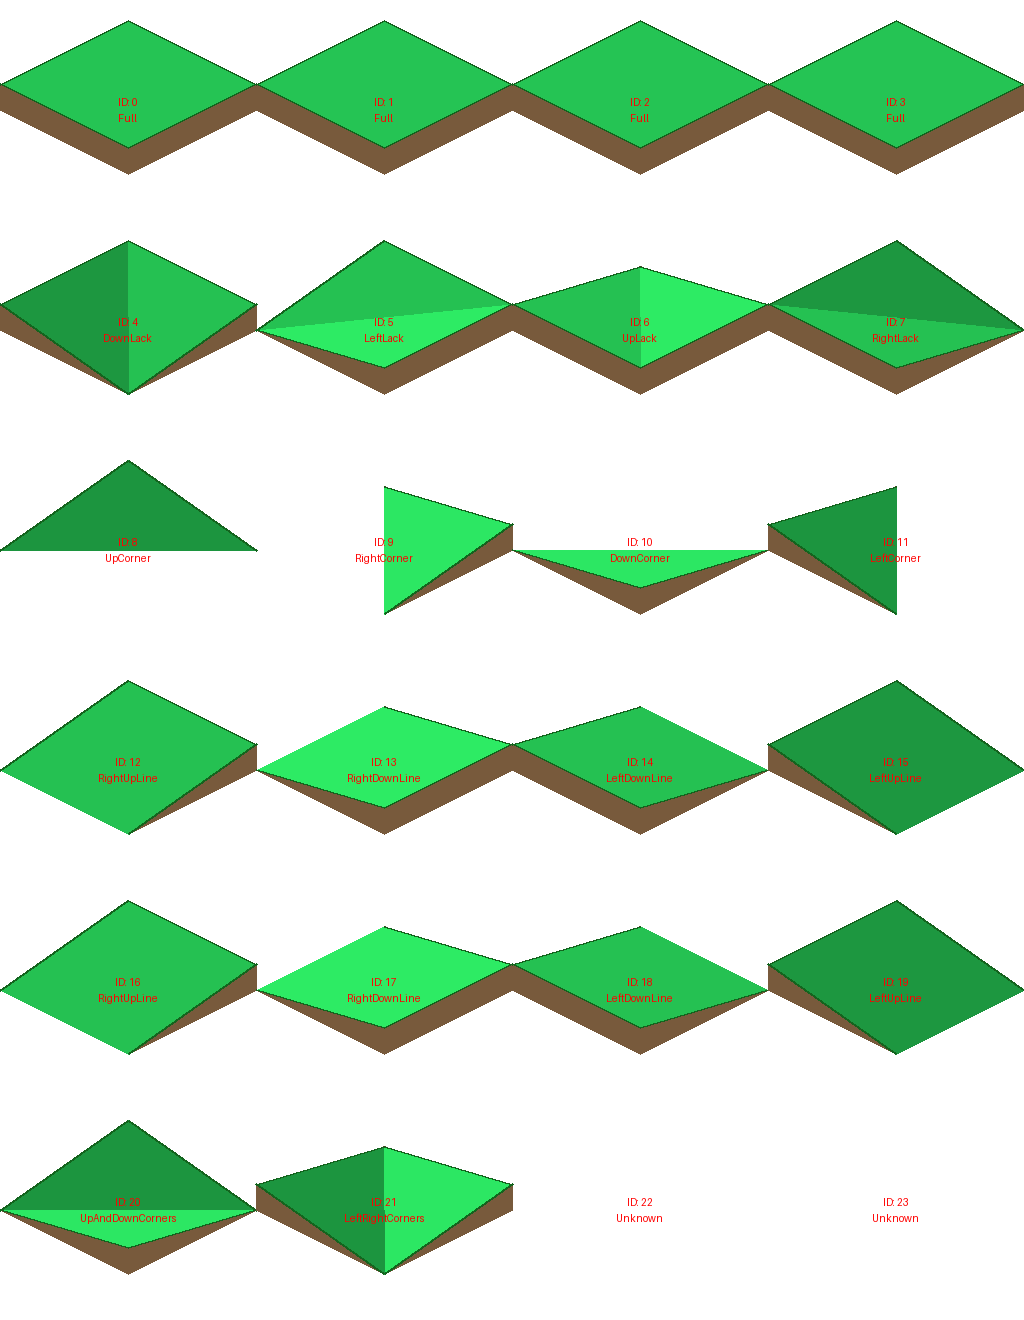
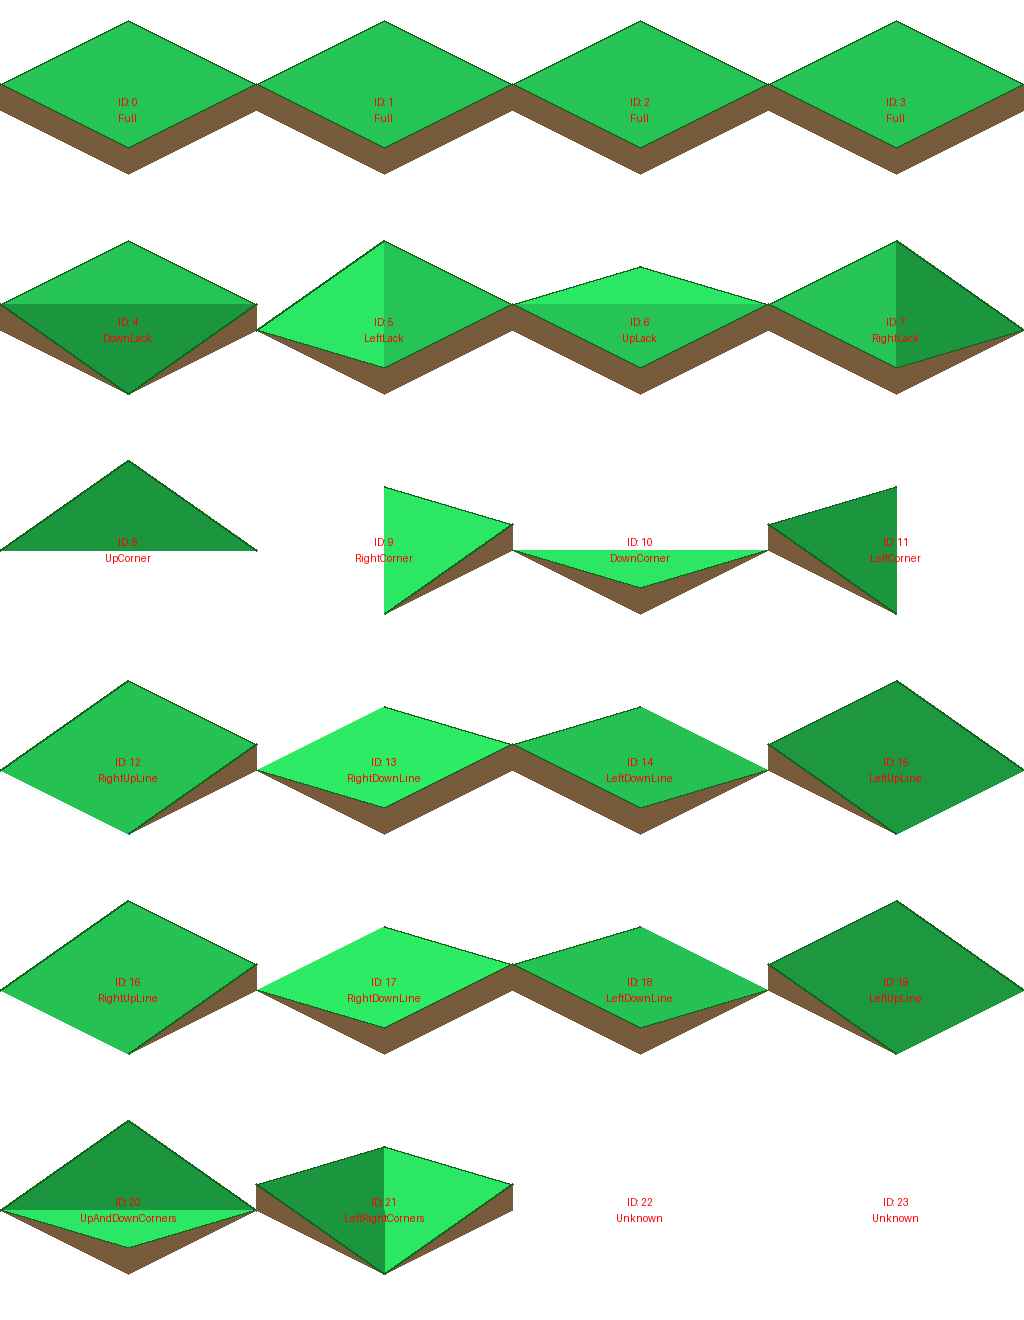
improve tile generation rules

Changed region(s): [[0.0, 0.1864, 0.5, 0.3106], [0.5312, 0.1864, 1.0, 0.2795]]

diff --git a/utils/asset_generator/generate_atlas_valley.py b/utils/asset_generator/generate_atlas_valley.py
@@ -55,14 +55,14 @@ def generate_png_atlas():
     # VALLEY (CONCAVE) VARIANT
     # Corners: Flat bottom (Center 0)
     # Opposites: Deep Canal (Center 0)
-    # Lacks: Folded (Center 0.5) - as per Valley table
+    # Lacks: Flat Plateau (Center 1) - UPDATED per request
     
     masks = {
         'Full':             [1, 1, 1, 1, 1, 1, 1, 1, 1],
-        'DownLack':         [1, 1, 1, 1, 1, 0.5, 0, 0.5, 0.5],
-        'LeftLack':         [0, 0.5, 1, 1, 1, 1, 1, 0.5, 0.5],
-        'UpLack':           [1, 0.5, 0, 0.5, 1, 1, 1, 1, 0.5],
-        'RightLack':        [1, 1, 1, 0.5, 0, 0.5, 1, 1, 0.5],
+        'DownLack':         [1, 1, 1, 1, 1, 0.5, 0, 0.5, 1],
+        'LeftLack':         [0, 0.5, 1, 1, 1, 1, 1, 0.5, 1],
+        'UpLack':           [1, 0.5, 0, 0.5, 1, 1, 1, 1, 1],
+        'RightLack':        [1, 1, 1, 0.5, 0, 0.5, 1, 1, 1],
         
         # VALLEY SPECIFIC: Center 0 for Corners
         'UpCorner':         [0, 0.5, 1, 0.5, 0, 0, 0, 0, 0],
@@ -157,7 +157,7 @@ def generate_png_atlas():
                 draw.polygon(poly, fill=side_color)
 
         # Surface
-        if any(h > 0 for h in heights) or t_type == 'Unknown': # Unknown is usually flat low, so skip
+        if any(h > 0 for h in heights) or t_type == 'Unknown': 
             # Calculate 3D points
             pts_3d = []
             for k in range(5):
@@ -166,17 +166,22 @@ def generate_png_atlas():
 
             tris = []
             
-            # TRIANGULATION LOGIC (VALLEY)
+            # TRIANGULATION LOGIC (VALLEY UPDATED)
             # Use Center point for Opposites to show the valley
             if t_type in ['UpAndDownCorners', 'LeftRightCorners']:
                 tris = [(4, 0, 1), (4, 1, 2), (4, 2, 3), (4, 3, 0)]
             # For Corners (Center 0), we want flat bottom.
-            # If Center 0, splitting via Center works well (0-0-1 triangles)
             elif t_type in ['UpCorner', 'DownCorner', 'LeftCorner', 'RightCorner']:
                 tris = [(4, 0, 1), (4, 1, 2), (4, 2, 3), (4, 3, 0)]
-            # Lacks are folded, Center 0.5. Fan works too.
-            elif t_type in ['UpLack', 'DownLack', 'LeftLack', 'RightLack']:
-                 tris = [(4, 0, 1), (4, 1, 2), (4, 2, 3), (4, 3, 0)]
+            # Lacks: Flat Plateau (Diagonal of adjacent raised corners)
+            elif t_type == 'DownLack': # D=0, L,U,R=1. Split L-R (0-2).
+                 tris = [(0, 1, 2), (0, 2, 3)]
+            elif t_type == 'UpLack':   # U=0, L,R,D=1. Split L-R (0-2).
+                 tris = [(0, 1, 2), (0, 2, 3)] # (0,1,2) has U=0, so this is the sloped one. (0,2,3) is L,R,D=1, flat.
+            elif t_type == 'LeftLack': # L=0, U,R,D=1. Split U-D (1-3).
+                 tris = [(0, 1, 3), (1, 2, 3)]
+            elif t_type == 'RightLack':# R=0, L,U,D=1. Split U-D (1-3).
+                 tris = [(0, 1, 3), (1, 2, 3)]
             else:
                  # Default Split Up-Down
                  tris = [(0, 1, 3), (1, 2, 3)]

diff --git a/utils/asset_generator/TILE_MASKS.md b/utils/asset_generator/TILE_MASKS.md
@@ -28,15 +28,16 @@
 
 # Вариант 1: Вогнутый / Складка (Valley / Concave)
 
-Этот способ разбиения характерен тем, что диагональ проводится от опущенных (низких) точек, создавая впадины или плоские участки. В данном варианте **Corner** тайлы имеют плоское основание, а **Lack** тайлы имеют вогнутую складку.
+Этот способ разбиения характерен тем, что диагональ проводится от опущенных (низких) точек, создавая впадины или плоские участки. В данном варианте **Corner** тайлы имеют плоское основание.
+**Обновление (Lack):** Тайлы **Lack** в этом варианте теперь образуют **плоское плато** (один плоский треугольник наверху и один наклонный).
 
 | TileType | Маска (Valley) | Описание |
 | :--- | :--- | :--- |
 | **Full** | `[1, 1, 1, 1, 1, 1, 1, 1, 1]` | Плоское плато. |
-| **DownLack** | `[1, 1, 1, 1, 1, 0.5, 0, 0.5, 0.5]` | Складка вниз. Диагональ U-D. |
-| **LeftLack** | `[0, 0.5, 1, 1, 1, 1, 1, 0.5, 0.5]` | Складка влево. Диагональ L-R. |
-| **UpLack** | `[1, 0.5, 0, 0.5, 1, 1, 1, 1, 0.5]` | Складка вверх. Диагональ U-D. |
-| **RightLack** | `[1, 1, 1, 0.5, 0, 0.5, 1, 1, 0.5]` | Складка вправо. Диагональ L-R. |
+| **DownLack** | `[1, 1, 1, 1, 1, 0.5, 0, 0.5, 1]` | **Плоское плато**. Диагональ L-R. |
+| **LeftLack** | `[0, 0.5, 1, 1, 1, 1, 1, 0.5, 1]` | **Плоское плато**. Диагональ U-D. |
+| **UpLack** | `[1, 0.5, 0, 0.5, 1, 1, 1, 1, 1]` | **Плоское плато**. Диагональ L-R. |
+| **RightLack** | `[1, 1, 1, 0.5, 0, 0.5, 1, 1, 1]` | **Плоское плато**. Диагональ U-D. |
 | **UpCorner** | `[0, 0.5, 1, 0.5, 0, 0, 0, 0, 0]` | Плоское дно с рампой к углу. |
 | **RightCorner** | `[0, 0, 0, 0.5, 1, 0.5, 0, 0, 0]` | Плоское дно. |
 | **DownCorner** | `[0, 0, 0, 0, 0, 0.5, 1, 0.5, 0]` | Плоское дно. |
@@ -50,23 +51,20 @@
 # Вариант 2: Выпуклый / Гребень (Ridge / Convex) - Текущий
 
 Этот способ разбиения характерен тем, что диагональ проводится между поднятыми (высокими) точками, создавая гребни и выпуклости. **Corner** тайлы становятся пиками с хребтом к центру, а **Lack** тайлы (если бы использовался этот метод) стали бы плоскими плато.
-**В текущей реализации для Lack используется логика Valley (для красоты), но для Corner используется логика Ridge.**
+**В текущей реализации для Lack используется логика Folded (складка), для Corner используется логика Ridge.**
 
 Ниже приведена полная таблица для "чистого" варианта Ridge, а также гибридный вариант, используемый сейчас.
 
-## Чистый Ridge (Все выпуклое)
-В этом варианте Lack тайлы были бы плоскими сверху (центр = 1), а Corner тайлы выпуклыми.
-
 ## Гибридный (RPG Style) - Используется в Atlas Generator
-Смесь: **Lack** тайлы вогнутые (Valley, центр 0.5), **Corner** тайлы выпуклые (Ridge, центр 0.5), **Opposite** тайлы седловидные (Saddle, центр 0.5).
+Смесь: **Lack** тайлы вогнутые (Folded, центр 0.5), **Corner** тайлы выпуклые (Ridge, центр 0.5), **Opposite** тайлы седловидные (Saddle, центр 0.5).
 
 | TileType | Маска (Hybrid / Current) | Описание реализации |
 | :--- | :--- | :--- |
 | **Full** | `[1, 1, 1, 1, 1, 1, 1, 1, 1]` | Плоское плато. |
-| **DownLack** | `[1, 1, 1, 1, 1, 0.5, 0, 0.5, 0.5]` | **Valley**: Складка. Диагональ U-D. |
-| **LeftLack** | `[0, 0.5, 1, 1, 1, 1, 1, 0.5, 0.5]` | **Valley**: Складка. Диагональ L-R. |
-| **UpLack** | `[1, 0.5, 0, 0.5, 1, 1, 1, 1, 0.5]` | **Valley**: Складка. Диагональ U-D. |
-| **RightLack** | `[1, 1, 1, 0.5, 0, 0.5, 1, 1, 0.5]` | **Valley**: Складка. Диагональ L-R. |
+| **DownLack** | `[1, 1, 1, 1, 1, 0.5, 0, 0.5, 0.5]` | **Folded**: Складка. Диагональ U-D. |
+| **LeftLack** | `[0, 0.5, 1, 1, 1, 1, 1, 0.5, 0.5]` | **Folded**: Складка. Диагональ L-R. |
+| **UpLack** | `[1, 0.5, 0, 0.5, 1, 1, 1, 1, 0.5]` | **Folded**: Складка. Диагональ U-D. |
+| **RightLack** | `[1, 1, 1, 0.5, 0, 0.5, 1, 1, 0.5]` | **Folded**: Складка. Диагональ L-R. |
 | **UpCorner** | `[0, 0.5, 1, 0.5, 0, 0, 0, 0, 0.5]` | **Ridge**: Выпуклый пик. Диагональ U-D. |
 | **RightCorner** | `[0, 0, 0, 0.5, 1, 0.5, 0, 0, 0.5]` | **Ridge**: Выпуклый пик. Диагональ L-R. |
 | **DownCorner** | `[0, 0, 0, 0, 0, 0.5, 1, 0.5, 0.5]` | **Ridge**: Выпуклый пик. Диагональ U-D. |
